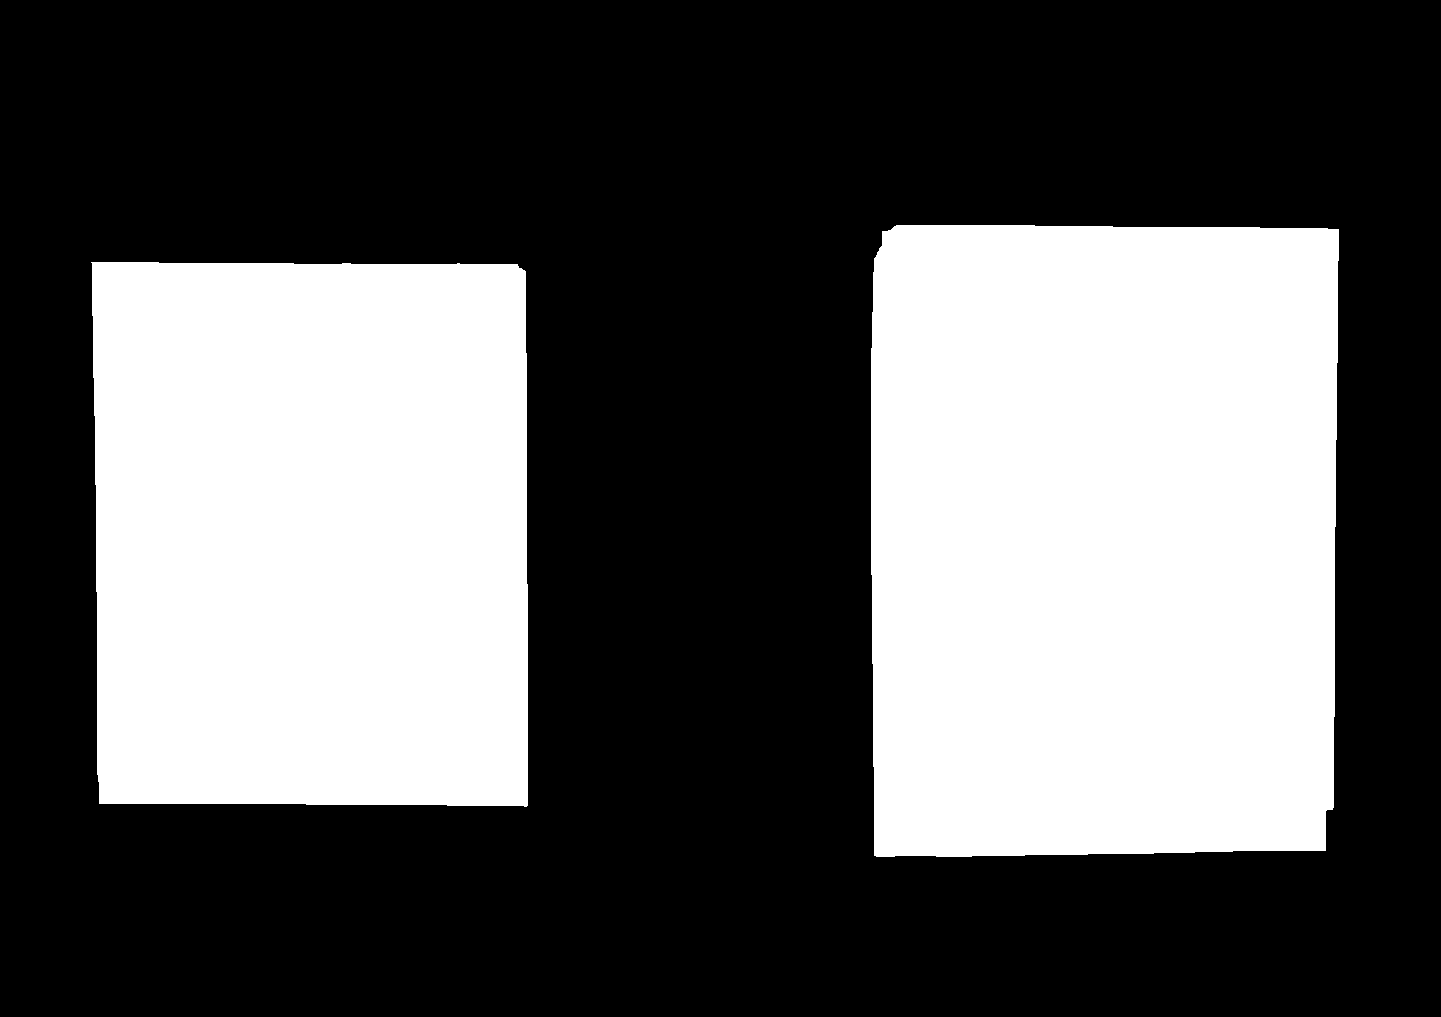
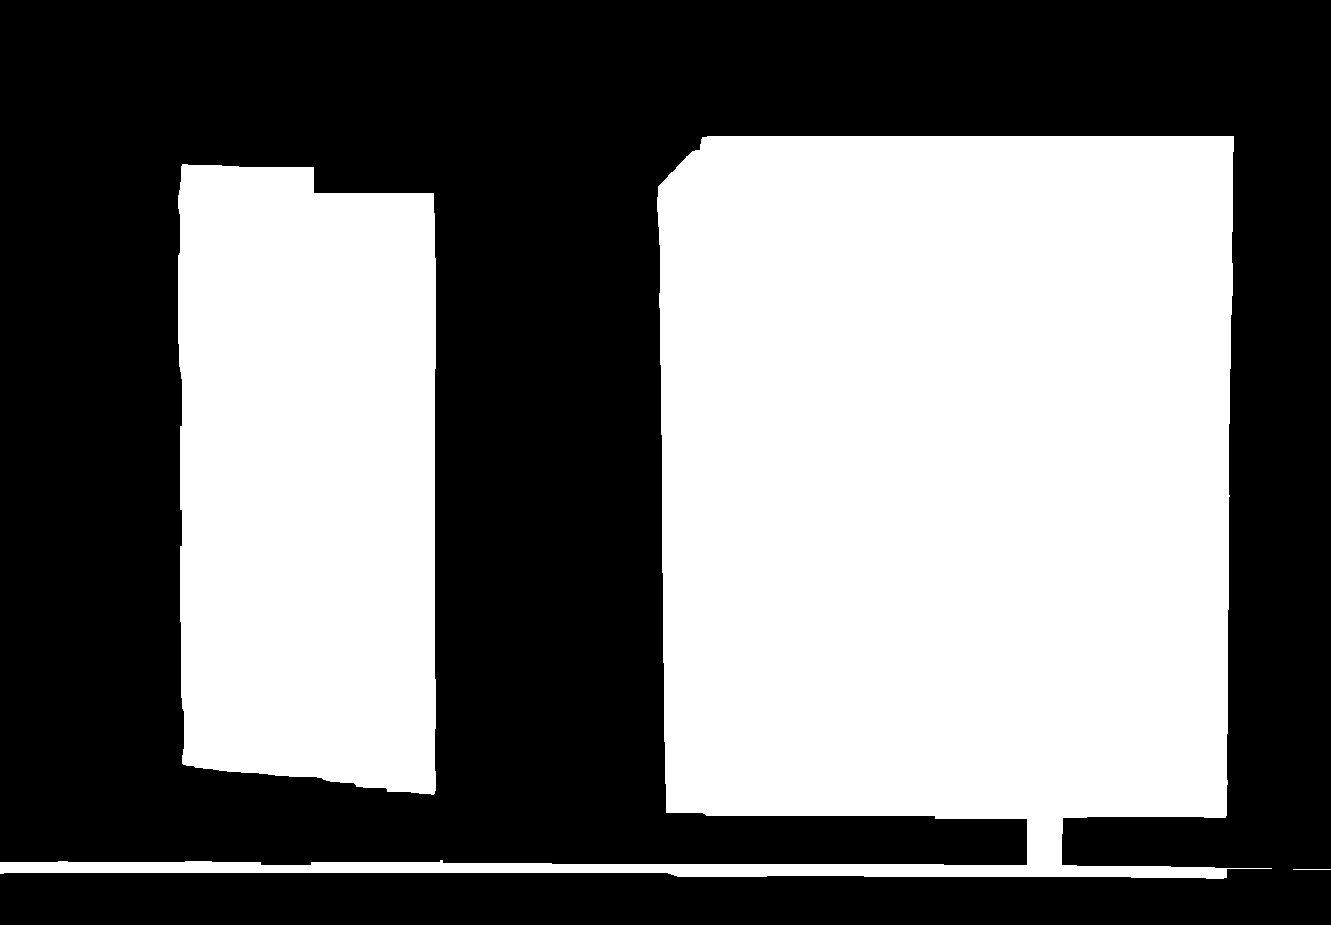
Mask method2, v2

diff --git a/week4/mask.py b/week4/mask.py
@@ -152,15 +152,13 @@ def mask_creation_v2(image, mask_path, image_index):
     canny_tresh2 = 110
 
     image = cv2.imread(image)
-    grayscale_image = cv2.cvtColor(image, cv2.COLOR_BGR2GRAY)
+    #grayscale_image = cv2.cvtColor(image, cv2.COLOR_BGR2GRAY)
 
-    canny = cv2.Canny(grayscale_image, canny_tresh1, canny_tresh2)
+    canny = cv2.Canny(image, canny_tresh1, canny_tresh2)
     canny = cv2.dilate(canny, None, iterations=2)
     #canny = cv2.erode(canny, None)
 
-    """cv2.imshow('image_canny',
-               cv2.resize(canny, (int(canny.shape[1] * 0.4), int(canny.shape[0] * 0.4)),
-                          cv2.INTER_AREA))
+    """cv2.imshow('image_canny', cv2.resize(canny, (int(canny.shape[1] * 0.4), int(canny.shape[0] * 0.4)), cv2.INTER_AREA))
     cv2.waitKey(0)"""
 
 
@@ -193,7 +191,7 @@ def mask_creation_v2(image, mask_path, image_index):
         cv2.fillConvexPoly(mask, contour_info[2][0], [255, 255, 255])
 
     mask = cv2.dilate(mask, None, iterations=10)
-    mask = cv2.erode(mask, None, iterations=20)
+    mask = cv2.erode(mask, None, iterations=15)
 
     """cv2.imshow('image_canny2',
                cv2.resize(mask, (int(mask.shape[1] * 0.4), int(mask.shape[0] * 0.4)),
@@ -215,7 +213,7 @@ if __name__ == '__main__':
     idx = 0
 
     for query in query_filenames:
-        if idx == 25:
+        if idx == 4:
             pass
             #masks[idx] = mask_creation_v2(query, 'masks/', idx)
         masks[idx] = mask_creation_v2(query, 'masks/', idx)
